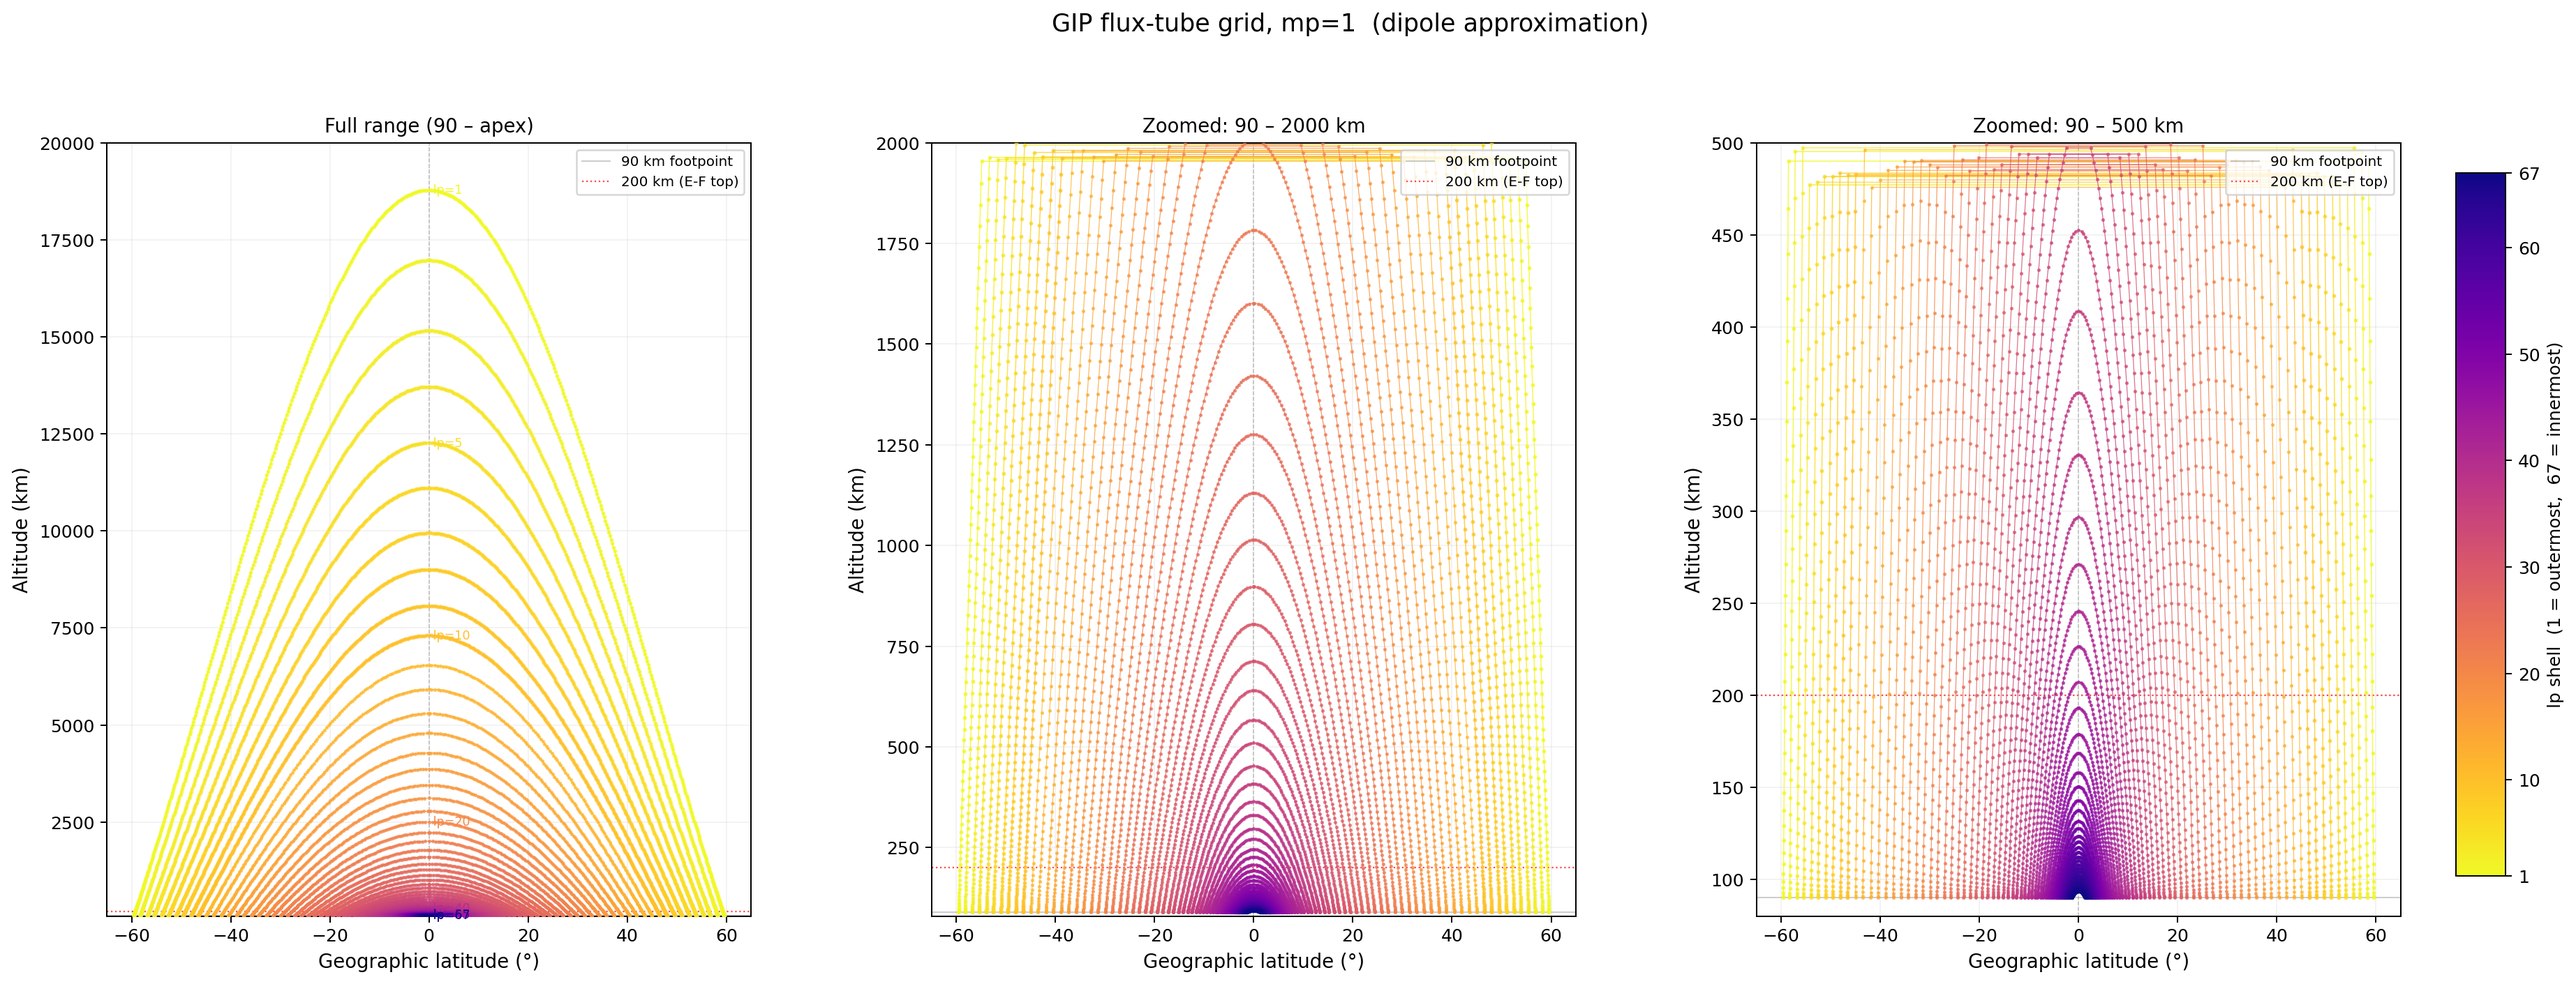
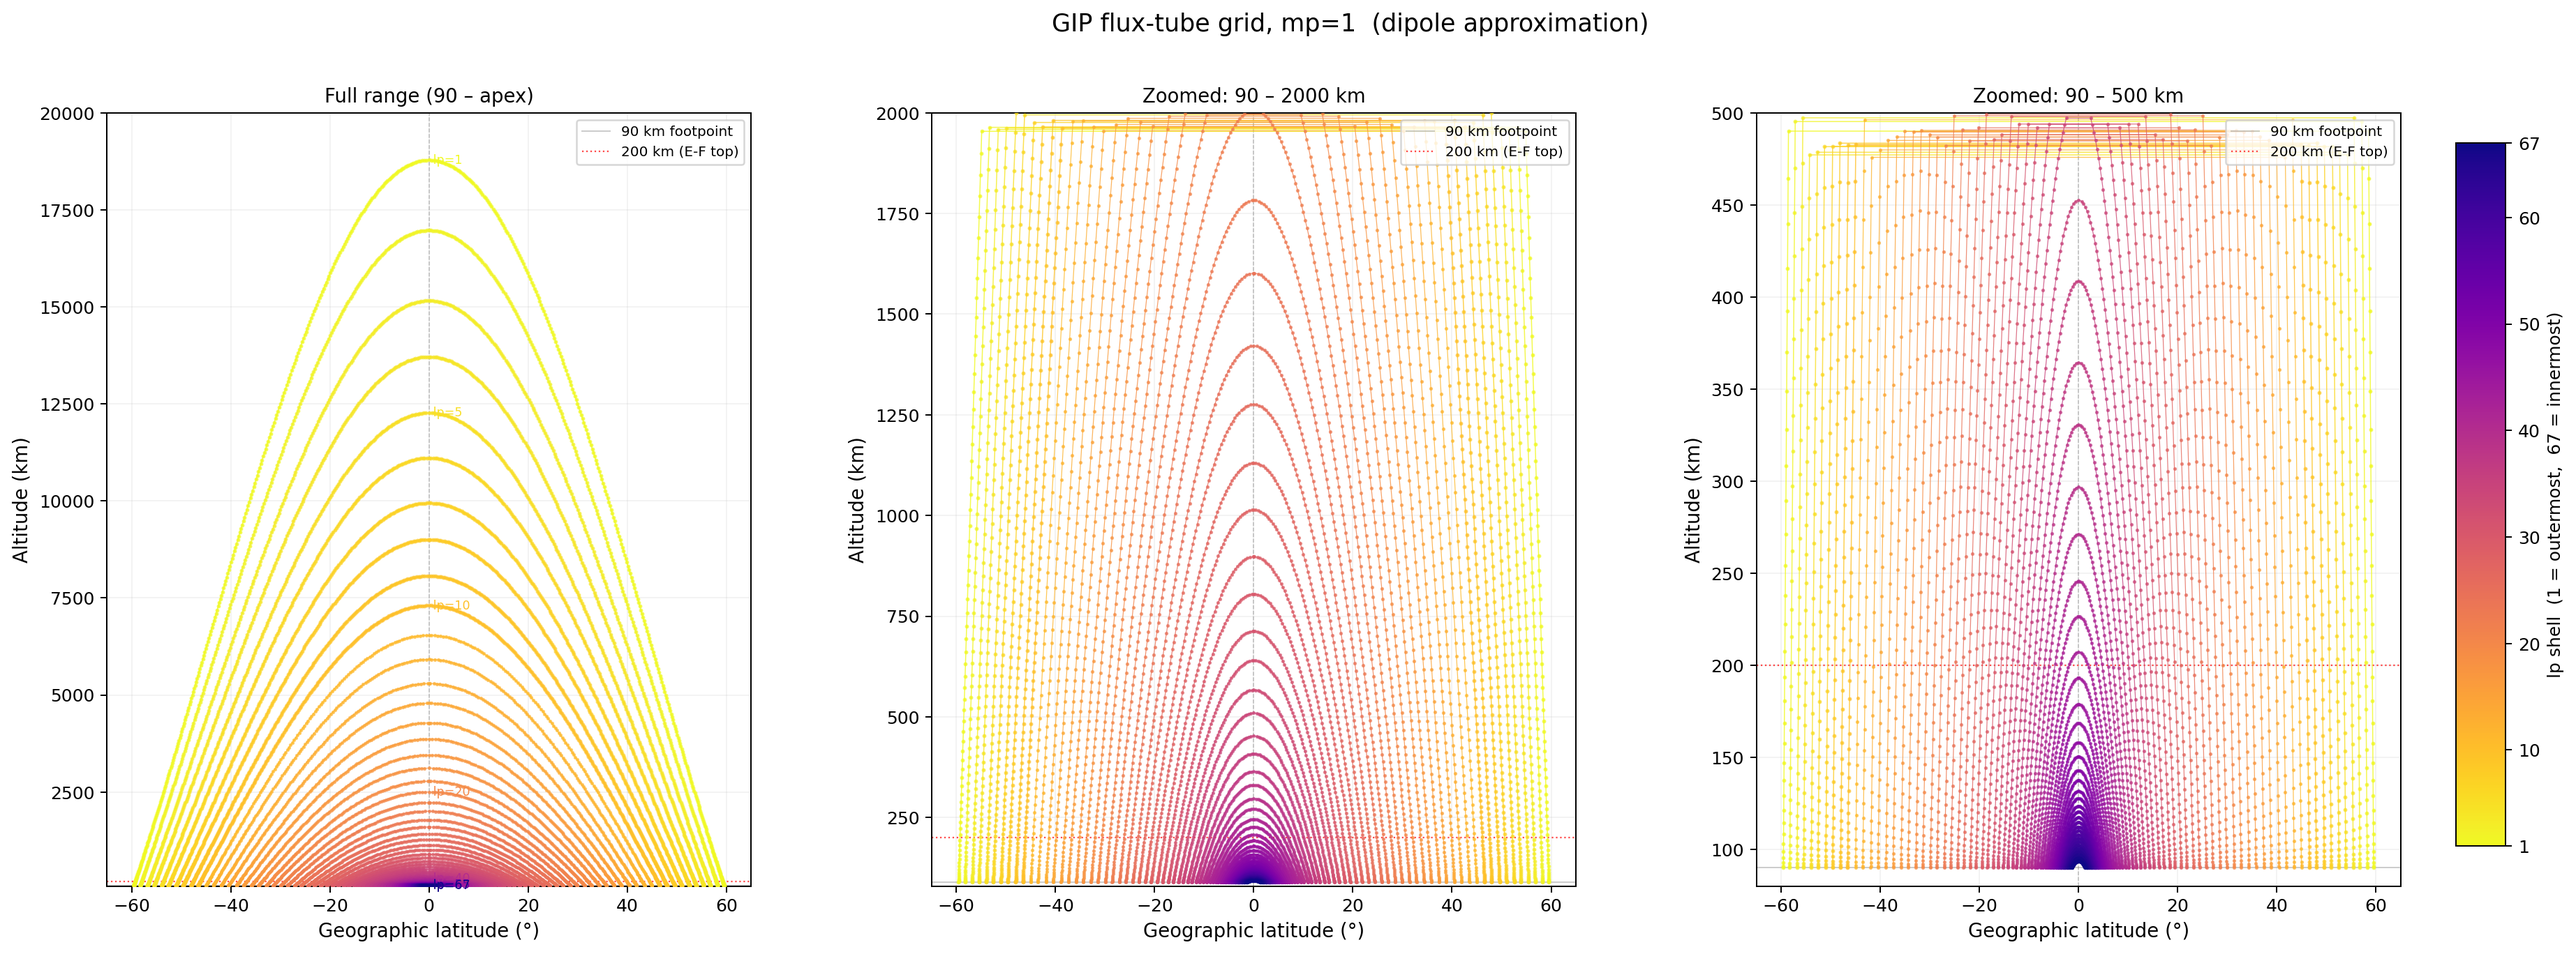
Fix suptitle clipped at top of tube plot

diff --git a/plot_tubes_mp1.py b/plot_tubes_mp1.py
@@ -91,7 +91,7 @@ for lp_idx, L in enumerate(L_all, start=1):
 # ---------------------------------------------------------------------------
 fig, (ax1, ax2, ax3) = plt.subplots(1, 3, figsize=(22, 8))
 fig.subplots_adjust(left=0.05, right=0.88, wspace=0.28)
-fig.suptitle('GIP flux-tube grid, mp=1  (dipole approximation)', fontsize=14, y=1.01)
+fig.suptitle('GIP flux-tube grid, mp=1  (dipole approximation)', fontsize=14, y=0.98)
 
 panels = [
     (ax1, None,  20000, 'Full range (90 – apex)'),
